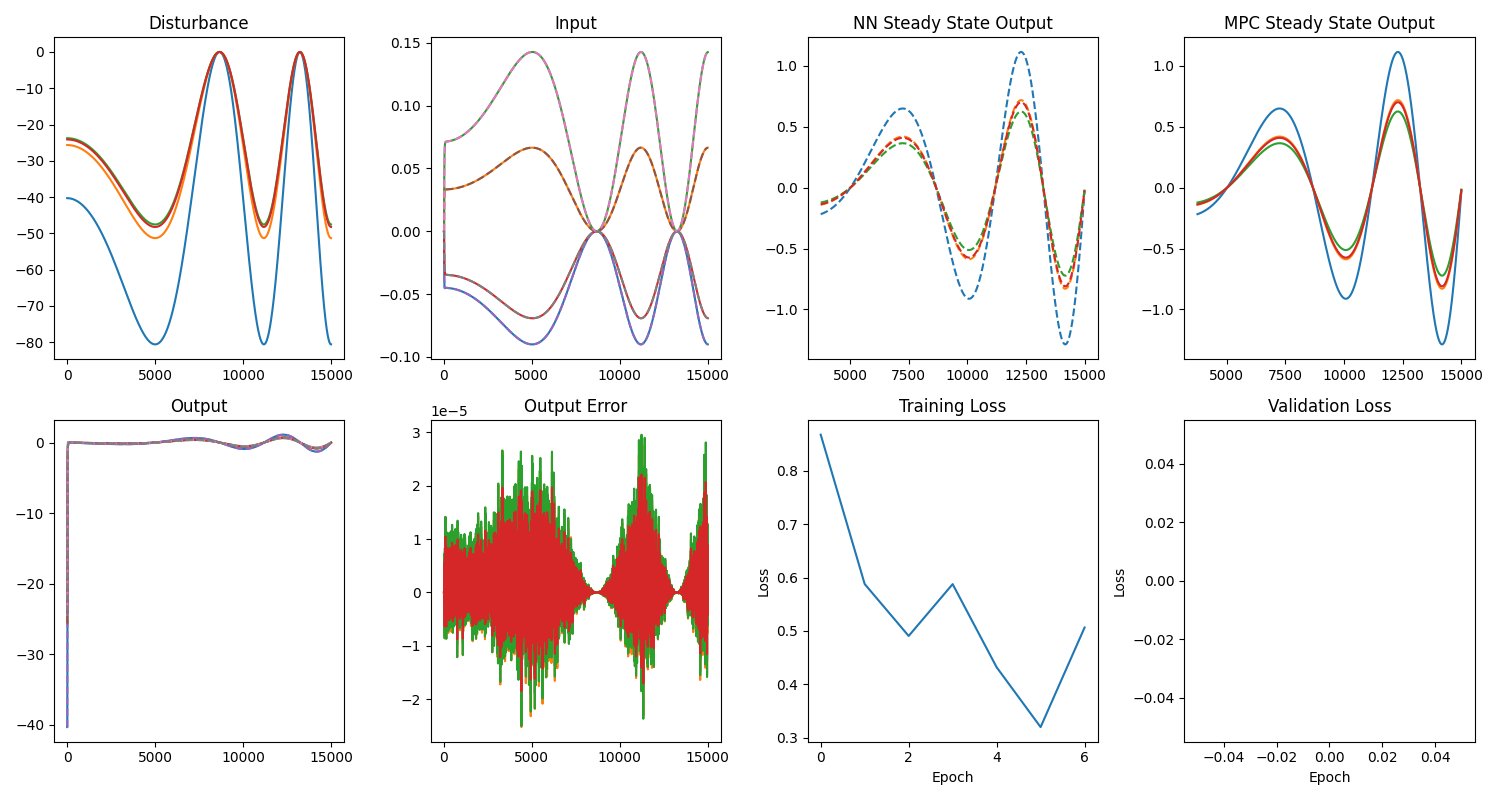
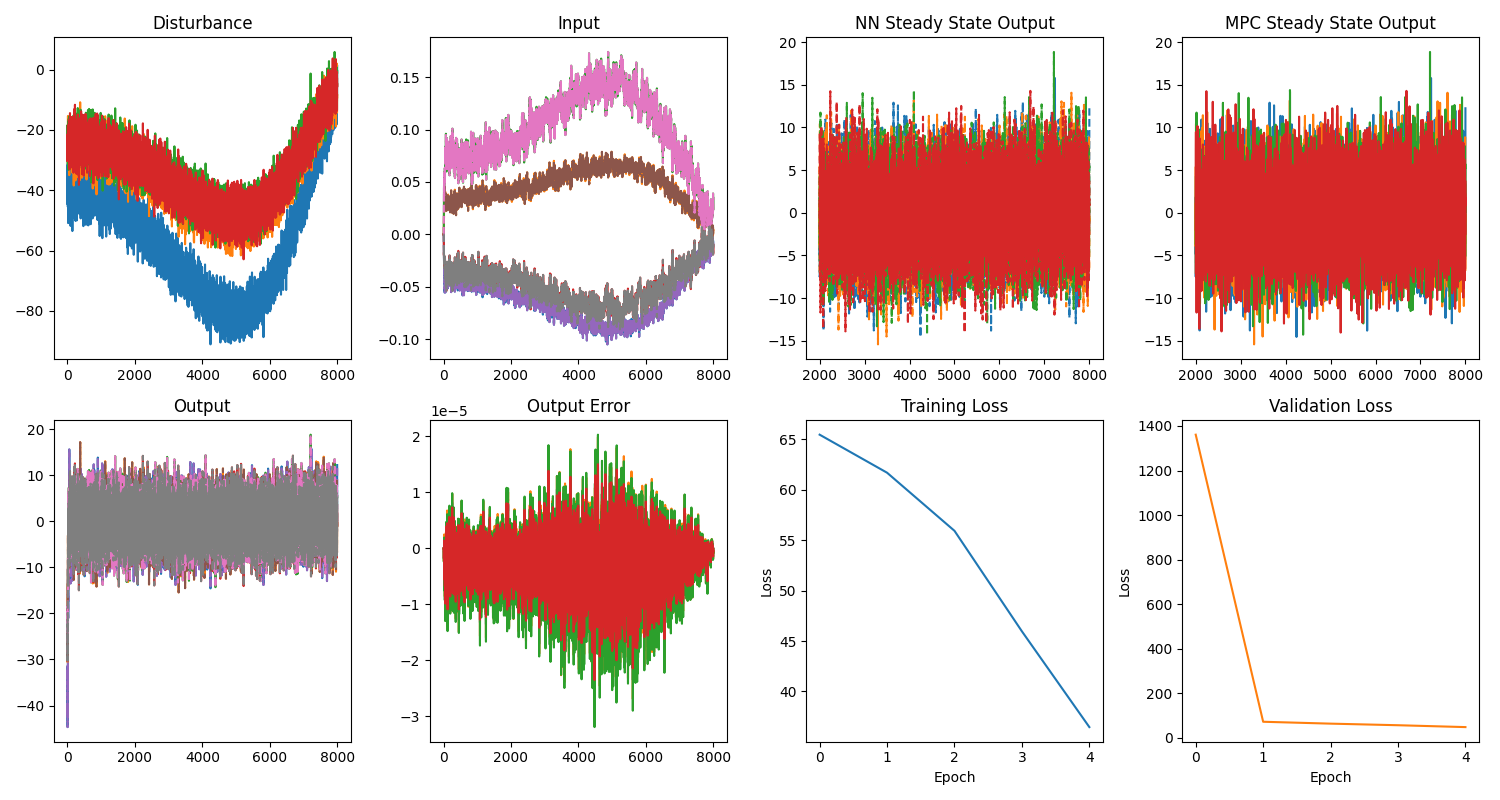
Added option for data generation with AWGN disturbance for both constant and sinusoid disurbances

diff --git a/mpc/test_model.py b/mpc/test_model.py
@@ -27,6 +27,8 @@ import pandas as pd
 import time
 # endregion
 
+# ~~~~~~~~~~~~~~~~~~~~~~~~~~~~~~~~~~~~~~~~~~~~~~~~~~~~~~~~~~~~~~~~~~~~~~~~~~~~~~~~~
+
 # region | helper functions to generate random disturbance modes
 
 #Helper function to generate random disturbance modes
@@ -62,6 +64,46 @@ def randModesSinusoid(seed, RM, id_to_bpm, TOT_BPM, u_mag, freq=1, amp_ratio=1):
     doff = base_doff * sinusoid[np.newaxis, :]
     return doff
 
+
+# Helper function to generate random disturbance modes with Additive White Gaussian Noise (AWGN)
+def randModesAWGN(seed, RM, id_to_bpm, TOT_BPM, u_mag, noise_std=4.0):
+    """
+    Generates a base disturbance mode and adds time-varying Gaussian noise (AWGN).
+    """
+    base_doff = randModes(seed, RM, id_to_bpm, TOT_BPM, u_mag)  # shape (TOT_BPM, n_samples)
+
+    # Generate white Gaussian noise for the entire duration
+    # Since randModes sets the seed, this noise generation is also determined by 'seed'
+    noise = np.random.normal(loc=0.0, scale=noise_std, size=base_doff.shape)
+
+    # Mask to apply noise only on active BPMs
+    mask = np.zeros_like(base_doff)
+    mask[id_to_bpm, :] = 1.0
+
+    # Combine base disturbance with noise
+    doff = base_doff + (noise * mask)
+    return doff
+
+
+# Helper function to generate random sinusoidal disturbance modes with Additive White Gaussian Noise (AWGN)
+def randModesSinusoidAWGN(seed, RM, id_to_bpm, TOT_BPM, u_mag, freq=1, amp_ratio=1, noise_std=4.0):
+    """
+    Generates a base disturbance mode with sinusoidal modulation and adds time-varying Gaussian noise (AWGN).
+    """
+    base_doff = randModesSinusoid(seed, RM, id_to_bpm, TOT_BPM, u_mag, freq, amp_ratio)
+
+    # Generate white Gaussian noise for the entire duration
+    # Since randModes sets the seed, this noise generation is also determined by 'seed'
+    noise = np.random.normal(loc=0.0, scale=noise_std, size=base_doff.shape)
+
+    # Mask to apply noise only on active BPMs
+    mask = np.zeros_like(base_doff)
+    mask[id_to_bpm, :] = 1.0
+
+    # Combine base disturbance with noise
+    doff = base_doff + (noise * mask)
+    return doff
+
 # endregion
 
 # ~~~~~~~~~~~~~~~~~~~~~~~~~~~~~~~~~~~~~~~~~~~~~~~~~~~~~~~~~~~~~~~~~~~~~~~~~~~~~~~~~
@@ -86,9 +128,10 @@ use_dagger = False
 #Toggle for LQR limits - Note that this is incompatible with OSQP
 use_lqr = False
 #Define max number of samples
-n_samples = 15000
+n_samples = 8000
 #first n_include BPMs and CMs active for testing
 n_include = 4
+
 
 # endregion
 
@@ -288,7 +331,7 @@ if generate_data:
     
     
     #Initialise array of seeds for pertubations
-    n_traj = 50 
+    n_traj = 20 
     trainseeds = np.linspace(1, n_traj*n_include, n_traj*n_include).astype(int)
     u_mags = np.linspace(1, 100, n_traj*n_include)
     n_tests = n_traj * n_include
@@ -317,10 +360,18 @@ if generate_data:
 
     for seed, u_mag in zip(trainseeds, u_mags):
         print('[{}/{}]'.format(n_complete, n_tests))
-        #Generate random disturbance modes based on seed
+        # Generate random disturbance modes based on seed
         # doff = randModes(seed, RM, id_to_bpm, TOT_BPM, u_mag)
-        # Use deterministic sinusoidal disturbance instead
-        doff = randModesSinusoid(seed, RM, id_to_bpm, TOT_BPM, u_mag)
+
+        # Generate sinusoid disturbance overlayed onto random disturbances based on seed
+        # doff = randModesSinusoid(seed, RM, id_to_bpm, TOT_BPM, u_mag)
+
+        # Generate AWGN disturbance overlayed onto random disturbances based on seed
+        # doff = randModesAWGN(seed, RM, id_to_bpm, TOT_BPM, u_mag)
+
+        # Generate Sinusoid with AWGN disturbance
+        doff = randModesSinusoidAWGN(seed, RM, id_to_bpm, TOT_BPM, u_mag)
+        
 
 
 
@@ -504,10 +555,19 @@ if generate_data:
 
 
 else:   # If not training simulate once for comparison or evaluation
+    comaprison_seed = 4200     # need to set a random seed for generating disturbances. This is used only here, to compare NN to MPC controller. It would be good if this seed is not one of the seeds used during training, which are defined by np.linspace(1, n_traj*n_include, n_traj*n_include).astype(int)
+    comparison_u_mag = 100
     # Generate constant non-zero disturbance for evaluation
-    # doff = randModes(4200, RM, id_to_bpm, TOT_BPM, 100)  # This is not a true random disturbance, because we set the seed. Seed it set to 4200
-    # Use deterministic sinusoidal disturbance instead
-    doff = randModesSinusoid(4200, RM, id_to_bpm, TOT_BPM, 100)
+    # doff = randModes(comaprison_seed, RM, id_to_bpm, TOT_BPM, comparison_u_mag)  # This is not a true random disturbance, because we set the seed. Seed it set to 4200
+
+    # Generate sinusoid disturbance overlayed onto random disturbances based on seed
+    # doff = randModesSinusoid(comaprison_seed, RM, id_to_bpm, TOT_BPM, comparison_u_mag)
+
+    # Generate AWGN disturbance overlayed onto random disturbances based on seed
+    # doff = randModesAWGN(comaprison_seed, RM, id_to_bpm, TOT_BPM, comparison_u_mag)
+    
+    # Generate Sinusoid with AWGN disturbance
+    doff = randModesSinusoidAWGN(comaprison_seed, RM, id_to_bpm, TOT_BPM, comparison_u_mag)
 
 
     #Simulation
@@ -631,10 +691,16 @@ if not use_dagger:
         axs[1, 2].set_ylabel('Loss')
         axs[1, 2].set_title('Training Loss')
         
-    #Subplot 8: Validation Loss
+    #Subplot 8: Validation Loss (Only plot once model has settled)
     if compare:
-        #Only plot once model has settled
         axs[1, 3].plot(loss_data['epochs'][10:], loss_data['val_losses'][10:])
+        axs[1, 3].set_xlabel('Epoch')
+        axs[1, 3].set_ylabel('Loss')
+        axs[1, 3].set_title('Validation Loss')
+
+        #Subplot 8: Validation Loss (Plot all epochs (good if #epochs is small ie <10))
+    if compare:
+        axs[1, 3].plot(loss_data['epochs'], loss_data['val_losses'])
         axs[1, 3].set_xlabel('Epoch')
         axs[1, 3].set_ylabel('Loss')
         axs[1, 3].set_title('Validation Loss')

diff --git a/mpc/train.py b/mpc/train.py
@@ -47,18 +47,18 @@ u_test_data = torch.load(os.path.join(data_dir, 'u_test.pt'))
 
 #Settings
 
-# Model selection: 'linear' (simple linear), 'lqr' (LQR-based controller), or 'nn' (neural network)
+# Model selection: 'linear' (simple linear) or 'nn' (neural network)
 model_type = 'nn'
 LoadParams = False #If true will load the initial parameters from a saved model
 
 #Hyperparameters
-hidden_size = 64
-learning_rate = 5e-3
-num_epochs = 500
+hidden_size = 64    # Number of neurons for hidden layer 1. Note that number of neurons in hidden layer 2 is half of hidden_size
+learning_rate = 3e-5
+num_epochs = 5
 weight_decay = 0
-batch_size = 64
-num_layers = 1
-wandb_run_name = "NN input appended with linear cost and constraints. Frequency sweep. Frequency is 1/4 that of blue line in fig 22. New loss function; only L1 for now. Should be similar to blue in Figure 22"
+batch_size = 128
+num_layers = 2      # Note that this variable isn't used. Number of hidden layers is hard coded in model.py
+wandb_run_name = "Smaller # training data. n_include = 4. Lighterweight training. AWGN disturbance WITH frequency sweep. noise_std=4.0."
 
 
 # region | data prep

diff --git a/mpc/utils/model.py b/mpc/utils/model.py
@@ -15,14 +15,20 @@ class NNController(nn.Module):
         super(NNController, self).__init__()
         self.type = 'LinReLux4'
         # Initialize weights and biases for all layers
+
+        # Hidden layer 1
         self.fc1 = nn.Linear(n_state, hidden_size)
-
         self.act1 = nn.ReLU()
-        self.fc2 = nn.Linear(hidden_size, int(hidden_size/2))
 
+        # Hideen layer 2
+        self.fc2 = nn.Linear(hidden_size, int(hidden_size/2))
         self.act2 = nn.ReLU()
+        
+        # Hidden layer 3
         # self.fc3 = nn.Linear(hidden_size, hidden_size)
         # self.act3 = nn.ReLU()
+
+        # Output layer
         self.fc4 = nn.Linear(int(hidden_size/2), n_ctrl)
 
 
